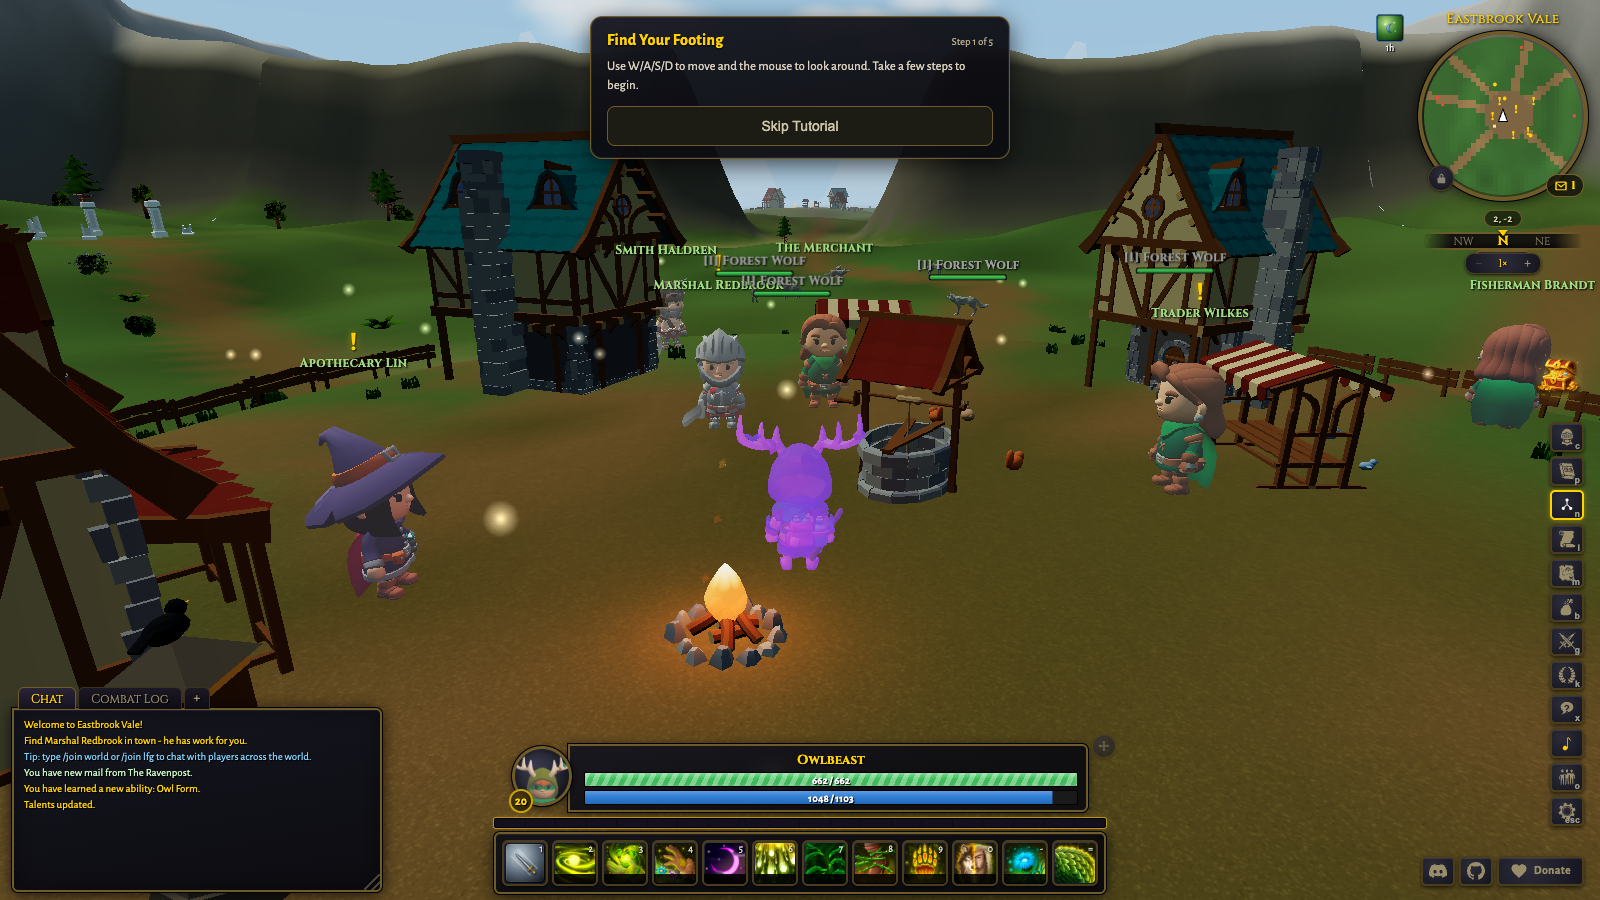
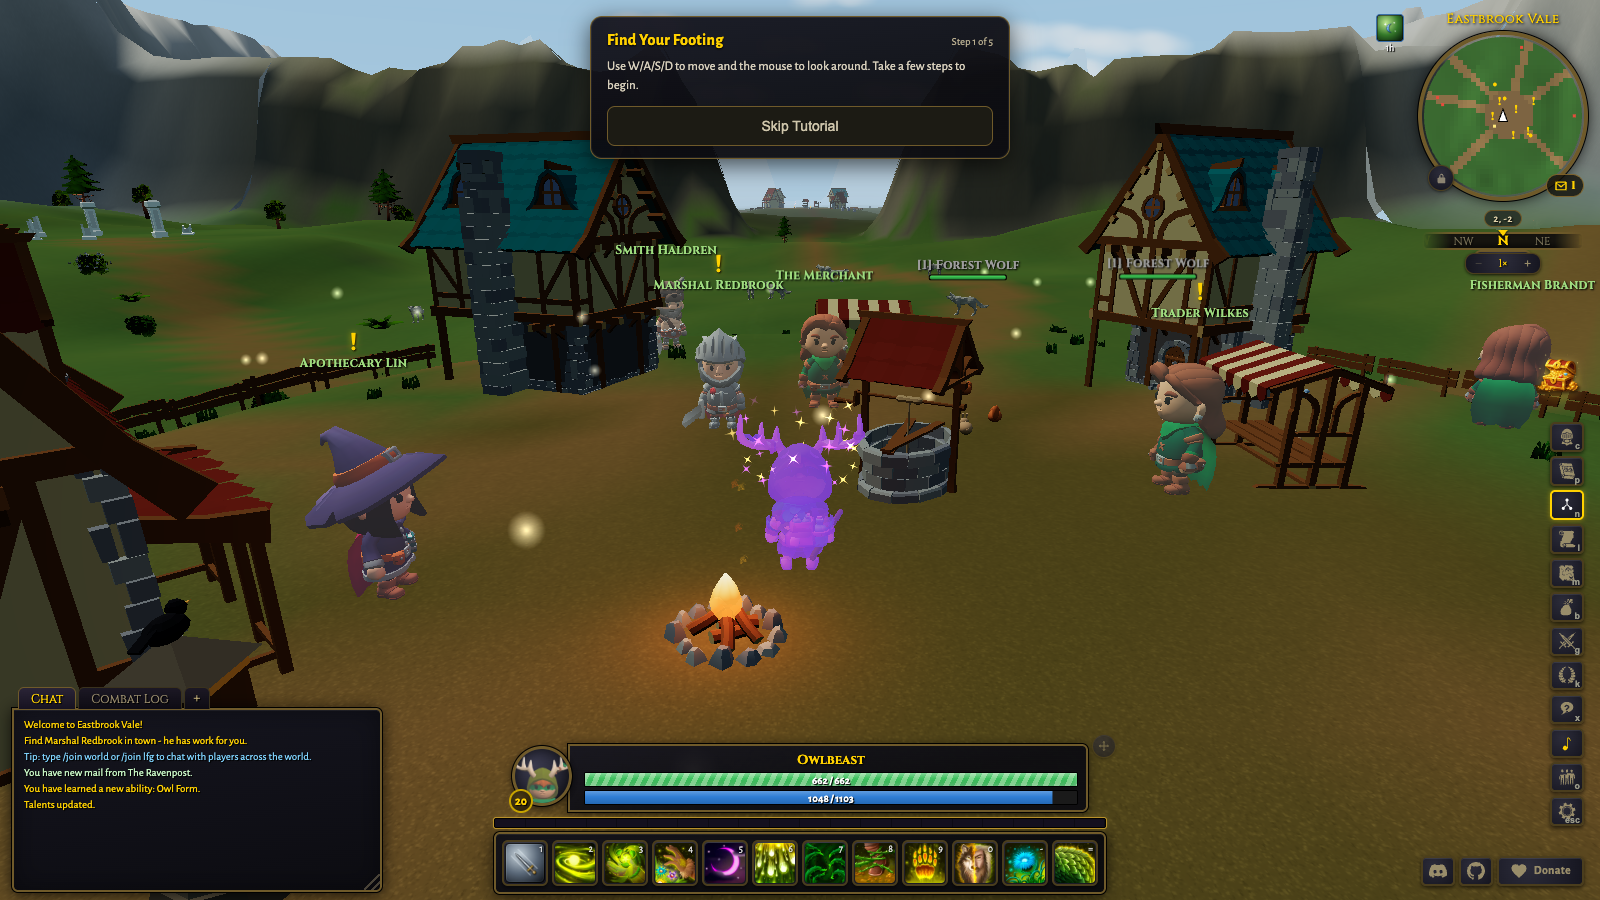
feat(render): particle auras for the shapeshift forms, demon-shaded Fiendshape tint
Fiendshape gains a fire aura (flame tongues plus gold embers) around a
darker, shaded fel-purple body. The flat neon look was a real bug: the
tint code floored emissiveIntensity with Math.max, but the source
materials ship intensity 1 with a black emissive color, so the floor
kept full-strength glow and the emissive drowned the tint, the fire,
and all shading. The intensity is now set explicitly.

Owl Form gains drifting gold and arcane star motes; Vesper Form gains
gloom wisps and smoke curls. The new vfx.formAura emitter is frame rate
independent: emitChance caps at one spawn per frame, which starves a
steady aura on a slow client, so formAura spawns the whole expected
count per frame instead.

Refreshed the committed Owl Form and Fiendshape screenshots and added a
Vesper Form scene (plus aura accumulation waits) to the shot harness.

diff --git a/src/render/vfx.ts b/src/render/vfx.ts
@@ -337,6 +337,16 @@ export class Vfx {
     return Math.random() <= dt * ratePerSecond * (0.35 + 0.65 * this.quality);
   }
 
+  // Frame-rate-independent variant for continuous auras: emitChance caps at one
+  // spawn per frame, which starves a steady aura on a slow frame (a 15 fps
+  // client would show a third of the particles a 60 fps client does). Returns
+  // the whole expected count plus a Bernoulli draw on the fraction.
+  private emitCount(ratePerSecond: number, dt: number): number {
+    const expected = dt * ratePerSecond * (0.35 + 0.65 * this.quality);
+    const n = Math.floor(expected);
+    return n + (Math.random() <= expected - n ? 1 : 0);
+  }
+
   private spawn(
     x: number,
     y: number,
@@ -602,6 +612,88 @@ export class Vfx {
       -0.5,
       school === 'fire' ? SPR.flame : SPR.magicWisp,
     );
+  }
+
+  // Shapeshift-form aura (continuous, called per frame while the form aura is
+  // on). Each form reads distinctly at a glance: metamorph = flame tongues +
+  // stray embers, moonkin = drifting star motes, shadowform = gloom wisps +
+  // smoke curls.
+  formAura(entityId: number, form: 'metamorph' | 'moonkin' | 'shadowform', dt: number): void {
+    if (form === 'metamorph') {
+      const n = this.emitCount(48, dt);
+      if (!n) return;
+      const at = this.anchor(entityId, 0.3);
+      if (!at) return;
+      for (let k = 0; k < n; k++) {
+        const a = Math.random() * Math.PI * 2;
+        // wide ring: Metamorphosis also grows the body (Entity.scale), so the
+        // flames must clear the fattened silhouette or they vanish inside it
+        const r = 0.6 + Math.random() * 0.45;
+        const ember = Math.random() < 0.45;
+        this.spawn(
+          at.x + Math.sin(a) * r,
+          at.y + Math.random() * 0.9,
+          at.z + Math.cos(a) * r,
+          Math.sin(a) * 0.25,
+          0.9 + Math.random() * 0.8,
+          Math.cos(a) * 0.25,
+          ember ? 0xffe08a : 0xffa040,
+          ember ? 0.24 : 0.62,
+          0.8 + Math.random() * 0.4,
+          -0.3,
+          ember ? SPR.sparkBurst : SPR.flame,
+          (Math.random() - 0.5) * 0.6,
+        );
+      }
+      return;
+    }
+    if (form === 'moonkin') {
+      const n = this.emitCount(30, dt);
+      if (!n) return;
+      const at = this.anchor(entityId, 0.55);
+      if (!at) return;
+      for (let k = 0; k < n; k++) {
+        const a = Math.random() * Math.PI * 2;
+        const r = 0.45 + Math.random() * 0.5;
+        this.spawn(
+          at.x + Math.sin(a) * r,
+          at.y + (Math.random() - 0.3) * 0.8,
+          at.z + Math.cos(a) * r,
+          Math.sin(a) * 0.15,
+          0.35 + Math.random() * 0.5,
+          Math.cos(a) * 0.15,
+          Math.random() < 0.35 ? 0xd98aff : 0xfff2c0,
+          0.24 + Math.random() * 0.18,
+          1.1 + Math.random() * 0.5,
+          -0.15,
+          SPR.star,
+        );
+      }
+      return;
+    }
+    // shadowform: dark wisps curling around the silhouette, the odd smoke curl
+    const n = this.emitCount(24, dt);
+    if (!n) return;
+    const at = this.anchor(entityId, 0.45);
+    if (!at) return;
+    for (let k = 0; k < n; k++) {
+      const a = Math.random() * Math.PI * 2;
+      const r = 0.4 + Math.random() * 0.4;
+      const smoke = Math.random() < 0.25;
+      this.spawn(
+        at.x + Math.sin(a) * r,
+        at.y + (Math.random() - 0.2) * 0.7,
+        at.z + Math.cos(a) * r,
+        -Math.cos(a) * 0.6,
+        0.4 + Math.random() * 0.5,
+        Math.sin(a) * 0.6,
+        smoke ? 0x3a2a55 : 0x9a5df0,
+        smoke ? 0.5 : 0.34,
+        0.85 + Math.random() * 0.5,
+        -0.2,
+        smoke ? SPR.smoke : SPR.magicWisp,
+      );
+    }
   }
 
   swimRipple(at: THREE.Vector3, dt: number): void {

diff --git a/src/render/characters/visual.ts b/src/render/characters/visual.ts
@@ -45,8 +45,10 @@ const SHADOWFORM_TINT = new THREE.Color(0x5a2a8f);
 // purplish tint like ghost form but a bit brighter).
 const MOONKIN_OPACITY = 0.72;
 const MOONKIN_TINT = new THREE.Color(0x9d6bff);
-// Metamorphosis: a monstrous demon shell, near-black body with a hot fel-purple glow.
-const METAMORPH_TINT = new THREE.Color(0x140a24);
+// Metamorphosis: a monstrous demon shell, deep fel-purple body with a hot glow
+// (the fire aura around it comes from vfx.formAura, not the material). Kept
+// dark enough that the body still shades and the flames read against it.
+const METAMORPH_TINT = new THREE.Color(0x4f2170);
 
 // shared invisible click capsule — raycaster ignores `visible`, render doesn't
 let clickGeoSingleton: THREE.CylinderGeometry | null = null;
@@ -652,7 +654,10 @@ export class CharacterVisual {
     if (withColor.color) withColor.color.copy(METAMORPH_TINT);
     if (withColor.emissive) {
       withColor.emissive.setHex(0x7a1abf);
-      withColor.emissiveIntensity = Math.max(withColor.emissiveIntensity ?? 0, 0.7);
+      // Set, don't floor: the source materials ship emissiveIntensity 1 (with a
+      // black emissive color), so a Math.max floor keeps full-strength glow and
+      // the body renders as flat neon, drowning the fire aura and all shading.
+      withColor.emissiveIntensity = 0.35;
     }
     this.metamorphMaterials.set(material, marked);
     return marked;

diff --git a/src/render/renderer.ts b/src/render/renderer.ts
@@ -4254,6 +4254,14 @@ export class Renderer {
       if (e.auras.some((a) => a.id === 'nythraxis_soul_rend')) {
         this.vfx.castSparkle(e.id, 'shadow', dt * 3.2);
       }
+      // Shapeshift-form particle auras riding the tints above: metamorph fire,
+      // moonkin star motes, shadowform gloom wisps. Suppressed for the dead
+      // (the auras themselves drop, but a corpse must not smolder for a frame).
+      if (!e.dead) {
+        if (hasMetamorph) this.vfx.formAura(e.id, 'metamorph', dt);
+        else if (hasMoonkin) this.vfx.formAura(e.id, 'moonkin', dt);
+        else if (hasShadowform) this.vfx.formAura(e.id, 'shadowform', dt);
+      }
       // The graveyard angel: a soft, constant golden shimmer rising off the Spirit Healer.
       if (e.templateId === 'spirit_healer') this.vfx.castSparkle(e.id, 'holy', dt * 0.6);
       if (swimming) this.vfx.swimRipple(v.group.position, moving ? dt * 3 : dt);
